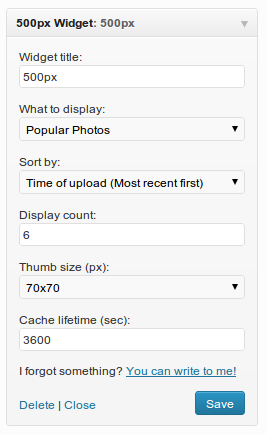
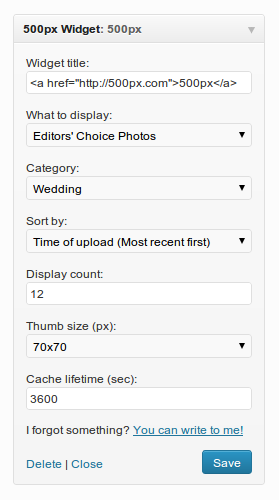
v0.3
git-svn-id: https://plugins.svn.wordpress.org/500px-widget/trunk@670632 b8457f37-d9ea-0310-8a92-e5e31aec5664

diff --git a/500px-widget.php b/500px-widget.php
@@ -2,8 +2,8 @@
 /**
  * Plugin Name: 500px Widget
  * Plugin URI: http://romantelychko.com/downloads/wordpress/plugins/500px-widget.latest.zip
- * Description: Displays photos from 500px.com as widget with many options.
- * Version: 0.2
+ * Description: 500px Widget works only as a sidebar widget and will retrieve images (based on a criteria) hosted on the 500px.com service. No 500px API key is required to use this plugin.
+ * Version: 0.3
  * Author: Roman Telychko
  * Author URI: http://romantelychko.com
 */
@@ -25,10 +25,44 @@ class Widget_500px extends WP_Widget
         'feature'                   => 1,
         'feature_username'          => '',
         'feature_tag'               => '',
+        'category'                  => -1,
         'sort_by'                   => 1,
         'count'                     => 6,
         'thumb_size'                => 1,
         'cache_lifetime'            => 3600,
+        
+        'categories'                => 
+            array(
+                '-1'    => 'Any',
+                '0'     => 'Uncategorized',
+                '10'    => 'Abstract',
+                '11'    => 'Animals',
+                '5'     => 'Black and White',
+                '1'     => 'Celebrities',
+                '9'     => 'City and Architecture',
+                '15'    => 'Commercial',
+                '16'    => 'Concert',
+                '20'    => 'Family',
+                '14'    => 'Fashion',
+                '2'     => 'Film',
+                '24'    => 'Fine Art',
+                '23'    => 'Food',
+                '3'     => 'Journalism',
+                '8'     => 'Landscapes',
+                '12'    => 'Macro',
+                '18'    => 'Nature',
+                '4'     => 'Nude',
+                '7'     => 'People',
+                '19'    => 'Performing Arts',
+                '17'    => 'Sport',
+                '6'     => 'Still Life',
+                '21'    => 'Street',
+                '26'    => 'Transporation',
+                '13'    => 'Travel',
+                '22'    => 'Underwater',
+                '27'    => 'Urban Exploration',
+                '25'    => 'Wedding',
+            ),
         );
 
     ///////////////////////////////////////////////////////////////////////////
@@ -64,6 +98,8 @@ class Widget_500px extends WP_Widget
 	 */
 	public function widget( $args, $instance ) 
 	{
+	    ///////////////////////////////////////////////////////////////////////
+	
 	    // args
 	    $args = array_merge( $this->defaults, $args );
 		
@@ -81,14 +117,12 @@ class Widget_500px extends WP_Widget
 		    {
 		        return false;
 		    }
-		    
-		    $title = apply_filters( 'widget_title', $instance['title'] );
      
             $html = $args['before_widget'];
 
-		    if( !empty( $title ) )
+		    if( !empty( $instance['title'] ) )
 		    {
-			    $html .= $args['before_title'].$title.$args['after_title'];
+			    $html .= $args['before_title'].$instance['title'].$args['after_title'];
 		    }
 		
 		    $html .= $this->getHTML( $photos, $instance );
@@ -100,6 +134,8 @@ class Widget_500px extends WP_Widget
 		}
 
 		echo( $html );		
+		
+	    ///////////////////////////////////////////////////////////////////////
 	}
 	
     ///////////////////////////////////////////////////////////////////////////
@@ -112,7 +148,11 @@ class Widget_500px extends WP_Widget
 	 */
 	public function getPhotos( $args = array() )
 	{
+	    ///////////////////////////////////////////////////////////////////////
+	    
 	    $url = 'https://api.500px.com/v1/photos';
+
+	    ///////////////////////////////////////////////////////////////////////
 
 	    switch( $args['sort_by'] )
 	    {
@@ -147,8 +187,19 @@ class Widget_500px extends WP_Widget
                                         
 	    }
 	    
+	    ///////////////////////////////////////////////////////////////////////
+	    
 	    #$url_params .= '?consumer_key='.$args['consumer_key'].'&sort='.$url_sort.'&rpp='.$args['count'].'&image_size='.$args['thumb_size'];
 	    $url_params .= '?consumer_key='.$this->defaults['consumer_key'].'&sort='.$url_sort.'&rpp='.$args['count'].'&image_size='.$args['thumb_size'];	    
+	    
+	    ///////////////////////////////////////////////////////////////////////
+	    
+	    if( $args['feature']<10 && $args['category']>=0 && isset($this->defaults['categories'][$args['category']]) )
+	    {
+	        $url_params .= '&only='.urlencode( $this->defaults['categories'][$args['category']] );
+	    }
+	    
+	    ///////////////////////////////////////////////////////////////////////
 
 	    switch( $args['feature'] )
 	    {
@@ -190,12 +241,14 @@ class Widget_500px extends WP_Widget
 	            break;
 	            
 	        case 10:            // Tag Photos
-	            $url .= '/search'.$url_params.'&tag='.$args['feature_tag'];
+	            $url .= '/search'.$url_params.'&tag='.urlencode($args['feature_tag']);
 	            break;
 	    }
+	    
+	    ///////////////////////////////////////////////////////////////////////
 
     	$data = file_get_contents( $url );
-	
+    	
         if( !empty($data) )
         {	
 	        return json_decode( $data, true );
@@ -213,6 +266,8 @@ class Widget_500px extends WP_Widget
         */
 
 	    return array();
+	    
+	    ///////////////////////////////////////////////////////////////////////
 	}
 	
     ///////////////////////////////////////////////////////////////////////////
@@ -226,10 +281,14 @@ class Widget_500px extends WP_Widget
 	 */
 	public function getHTML( $photos = array(), $args = array() )
 	{	
+	    ///////////////////////////////////////////////////////////////////////
+	
 	    if( empty($photos) || !isset($photos['photos']) || empty($photos['photos']) )
 	    {
 	        return false;
 	    }
+	    
+	    ///////////////////////////////////////////////////////////////////////
 	    
 	    // args
 	    $args = array_merge( $this->defaults, $args );
@@ -254,18 +313,24 @@ class Widget_500px extends WP_Widget
 	            $height = '';
 	            break;
 	    }
+	    
+	    ///////////////////////////////////////////////////////////////////////
 
 	    $html = '';
 	    
 	    foreach( $photos['photos'] as $photo )
 	    {
 	        $html .= 
-	            '<a href="http://500px.com/photo/'.$photo['id'].'" target="_BLANK" rel="nofollow" title="'.$photo['name'].'">'.
-	                '<img src="'.$photo['image_url'].'"'.( $width ? ' width="'.$width.'"' : '' ).( $height ? ' height="'.$height.'"' : '' ).' alt="'.$photo['name'].'" />'.
-                '</a> ';
+	            '<span class="'.$this->defaults['widget_id'].'_item">'.
+	                '<a href="http://500px.com/photo/'.$photo['id'].'" target="_blank" rel="nofollow" title="'.esc_attr($photo['name']).'">'.
+	                    '<img src="'.$photo['image_url'].'"'.( $width ? ' width="'.$width.'"' : '' ).( $height ? ' height="'.$height.'"' : '' ).' alt="'.esc_attr($photo['name']).'" />'.
+                    '</a>'.
+                '</span> ';
 	    }
 	    
 	    return $html;	
+	    
+	    ///////////////////////////////////////////////////////////////////////
 	}
 	
 	///////////////////////////////////////////////////////////////////////////
@@ -277,6 +342,8 @@ class Widget_500px extends WP_Widget
 	 */
 	public function clearCache()
 	{	
+	    ///////////////////////////////////////////////////////////////////////
+	
 	    global $wpdb;
 	
 	    $q = '
@@ -298,6 +365,8 @@ class Widget_500px extends WP_Widget
 	    }
 	    
 	    return true;
+	    
+	    ///////////////////////////////////////////////////////////////////////
 	}
 	
     ///////////////////////////////////////////////////////////////////////////
@@ -314,22 +383,29 @@ class Widget_500px extends WP_Widget
 	 */
 	public function update( $new_instance, $old_instance ) 
 	{
+	    ///////////////////////////////////////////////////////////////////////
+	
 	    // drop cache
 	    $this->clearCache();
+	    
+	    ///////////////////////////////////////////////////////////////////////
 	
 	    // return sanitized data
 		return 
 		    array(
-		        'title'                         => trim( strip_tags( $new_instance['title'] ) ),
+		        'title'                         => trim( strip_tags( $new_instance['title'], '<a><b><strong><i><em><span><div>' ) ),
 		        #'consumer_key'                  => trim( preg_replace( '#[^0-9A-Za-z]#', '', strip_tags( $new_instance['consumer_key'] ) ) ),
                 'feature'                       => intval( preg_replace( '#[^0-9]#', '', $new_instance['feature'] ) ),
                 'feature_username'              => trim( strip_tags( $new_instance['feature_username'] ) ),
                 'feature_tag'                   => trim( strip_tags( $new_instance['feature_tag'] ) ),
+                'category'                      => intval( preg_replace( '#[^0-9\-]#', '', $new_instance['category'] ) ),
                 'sort_by'                       => intval( preg_replace( '#[^0-9]#', '', $new_instance['sort_by'] ) ),
 		        'count'                         => intval( preg_replace( '#[^0-9]#', '', $new_instance['count'] ) ),
 		        'thumb_size'                    => intval( preg_replace( '#[^0-9]#', '', $new_instance['thumb_size'] ) ),
 		        'cache_lifetime'                => intval( preg_replace( '#[^0-9]#', '', $new_instance['cache_lifetime'] ) ),
 		    );
+		    
+	    ///////////////////////////////////////////////////////////////////////
 	}
 	
     ///////////////////////////////////////////////////////////////////////////
@@ -343,16 +419,21 @@ class Widget_500px extends WP_Widget
 	 */
 	public function form( $instance ) 
 	{   
+	    ///////////////////////////////////////////////////////////////////////
+	
 	    // defaults
 	    $title                      = $this->defaults['title'];
 	    #$consumer_key               = $this->defaults['consumer_key'];	    
 	    $feature                    = $this->defaults['feature'];
 	    $feature_username           = $this->defaults['feature_username'];
 	    $feature_tag                = $this->defaults['feature_tag'];
+	    $category                   = $this->defaults['category'];
 	    $sort_by                    = $this->defaults['sort_by'];
 	    $count                      = $this->defaults['count'];
 	    $thumb_size                 = $this->defaults['thumb_size'];
 	    $cache_lifetime             = $this->defaults['cache_lifetime'];
+	    
+	    ///////////////////////////////////////////////////////////////////////
 
         // set values
 		if( isset($instance['title']) && strlen($instance['title'])>1 ) 
@@ -380,6 +461,11 @@ class Widget_500px extends WP_Widget
 			$feature_tag = $instance['feature_tag'];
 		}
 		
+		if( isset($instance['category']) ) 
+		{
+			$category = intval($instance['category']);
+		}
+		
 		if( isset($instance['sort_by']) && intval($instance['sort_by'])>0 ) 
 		{
 			$sort_by = intval($instance['sort_by']);
@@ -400,6 +486,17 @@ class Widget_500px extends WP_Widget
 			$cache_lifetime = intval($instance['cache_lifetime']);
 		}
 	
+	    ///////////////////////////////////////////////////////////////////////
+	    
+	    $temp_select_categories = '';
+	    
+	    foreach( $this->defaults['categories'] as $category_id => $category_title )
+	    {
+	        $temp_select_categories .= '<option value="'.$category_id.'"'.( $category_id==$category ? ' selected="selected"' : '' ).'>'.$category_title.'</option>';
+	    }
+	    
+	    ///////////////////////////////////////////////////////////////////////
+	
 	    // html	
 		echo(
 		    '<script type="text/javascript">
@@ -414,16 +511,19 @@ class Widget_500px extends WP_Widget
                                 {
                                     jQuery(this).closest(\'div.'.$this->defaults['widget_id'].'_div\').find(\'p.'.$this->defaults['widget_id'].'_feature_username_p\').hide();
                                     jQuery(this).closest(\'div.'.$this->defaults['widget_id'].'_div\').find(\'p.'.$this->defaults['widget_id'].'_feature_tag_p\').hide();
+                                    jQuery(this).closest(\'div.'.$this->defaults['widget_id'].'_div\').find(\'p.'.$this->defaults['widget_id'].'_category_p\').show();
                                 }
                                 else if( jQuery(this).val()==10 )
                                 {
                                     jQuery(this).closest(\'div.'.$this->defaults['widget_id'].'_div\').find(\'p.'.$this->defaults['widget_id'].'_feature_username_p\').hide();
                                     jQuery(this).closest(\'div.'.$this->defaults['widget_id'].'_div\').find(\'p.'.$this->defaults['widget_id'].'_feature_tag_p\').show();
+                                    jQuery(this).closest(\'div.'.$this->defaults['widget_id'].'_div\').find(\'p.'.$this->defaults['widget_id'].'_category_p\').hide();
                                 }
                                 else
                                 {
                                     jQuery(this).closest(\'div.'.$this->defaults['widget_id'].'_div\').find(\'p.'.$this->defaults['widget_id'].'_feature_username_p\').show();
                                     jQuery(this).closest(\'div.'.$this->defaults['widget_id'].'_div\').find(\'p.'.$this->defaults['widget_id'].'_feature_tag_p\').hide();
+                                    jQuery(this).closest(\'div.'.$this->defaults['widget_id'].'_div\').find(\'p.'.$this->defaults['widget_id'].'_category_p\').show();
                                 }                                       		        
                                 
                                 return true;
@@ -465,6 +565,12 @@ class Widget_500px extends WP_Widget
 		            '<label for="'.$this->get_field_id('feature_tag').'">Tag:</label>'.
 		            '<input class="widefat" id="'.$this->get_field_id('feature_tag').'" name="'.$this->get_field_name('feature_tag').'" type="text" value="'.esc_attr($feature_tag).'" />'.
 		        '</p>'.
+		        '<p class="'.$this->defaults['widget_id'].'_category_p"'.( $feature<10 ? ' style="display:block;"' : ' style="display:none;"' ).'>'.
+		            '<label for="'.$this->get_field_id('category').'">Category:</label>'.
+		            '<select class="widefat" id="'.$this->get_field_id('category').'" name="'.$this->get_field_name('category').'">'.		            		        
+		                $temp_select_categories.
+		            '</select>'.
+		        '</p>'.			        
 		        '<p>'.
 		            '<label for="'.$this->get_field_id('sort_by').'">Sort by:</label>'.
 		            '<select class="widefat" id="'.$this->get_field_id('sort_by').'" name="'.$this->get_field_name('sort_by').'">'.		            
@@ -499,6 +605,8 @@ class Widget_500px extends WP_Widget
 		        '</p>'.
 	        '</div>'
 		    );
+		    
+	    ///////////////////////////////////////////////////////////////////////
 	}
 
     ///////////////////////////////////////////////////////////////////////////
@@ -506,7 +614,7 @@ class Widget_500px extends WP_Widget
 
 ///////////////////////////////////////////////////////////////////////////////
 
-// register AJAX Hits Counter: Popular Posts Widget
+// register 500px Widget
 add_action( 'widgets_init', create_function( '', 'register_widget( "Widget_500px" );' ) );
 
 ///////////////////////////////////////////////////////////////////////////////
